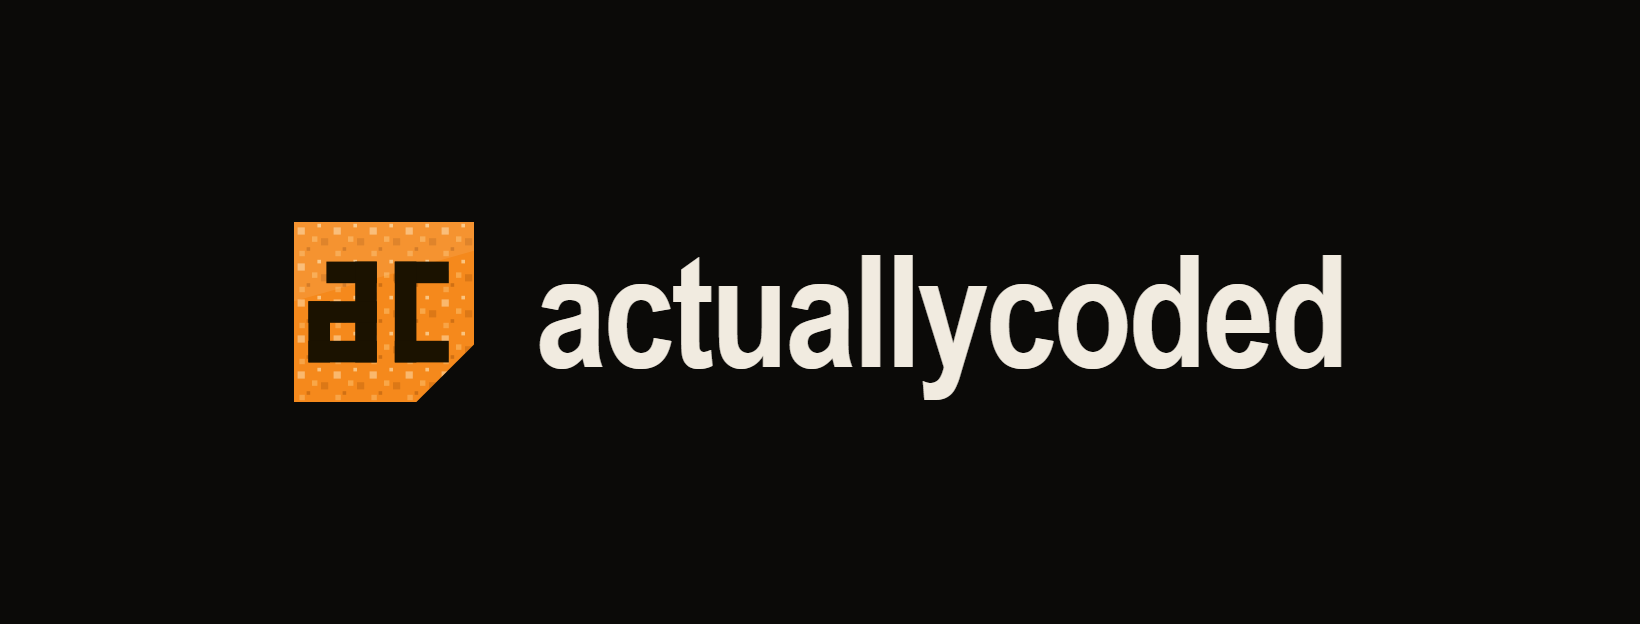
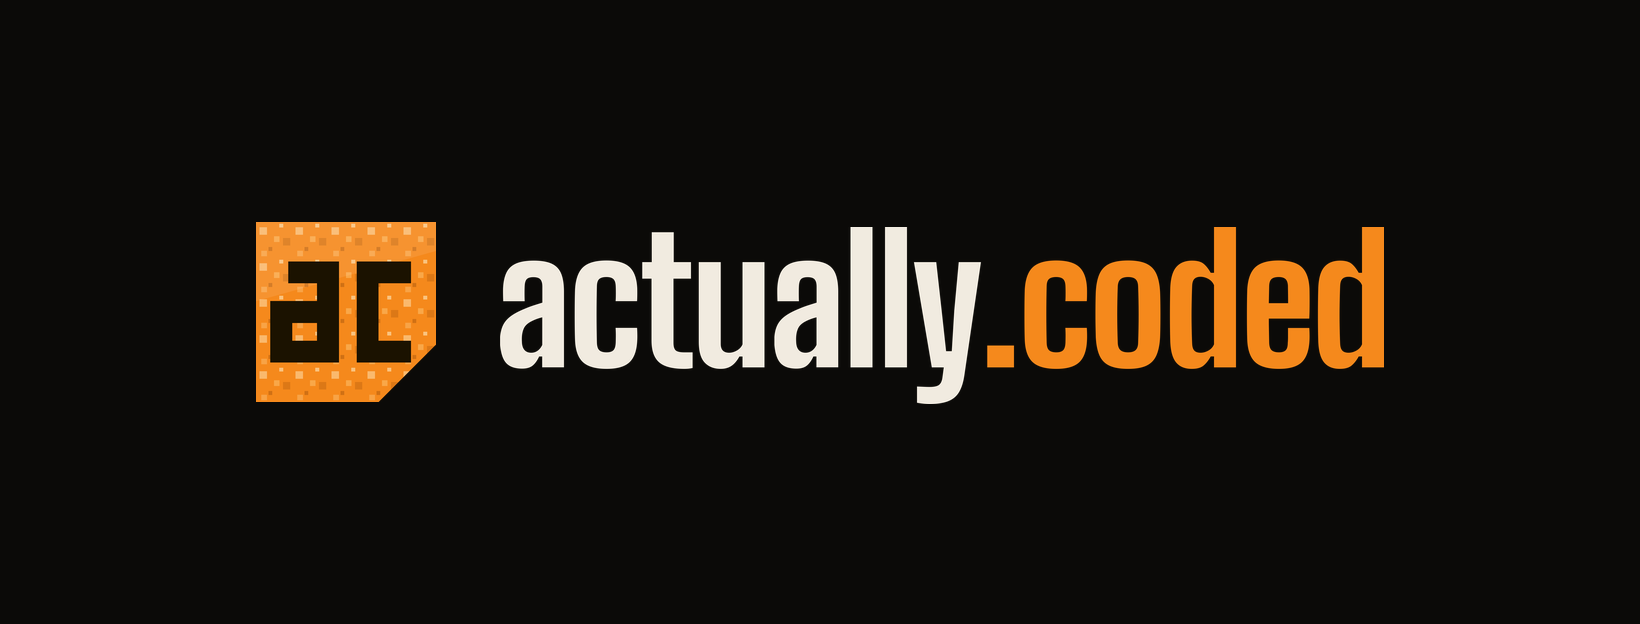
Brand files re rendered with the actually.coded wordmark
Logo and cover rendered in Python from the mark's geometry and the repo's
own Big Shoulders face at the header's weight and spacing; actually in
bone, .coded in amber. Icon and profile picture unchanged. The Facebook
cover already uploaded needs replacing.

Changed region(s): [[0.1555, 0.3349, 0.8707, 0.6699]]

diff --git a/brand/README.md b/brand/README.md
@@ -11,3 +11,14 @@ Not served by the site (this folder is outside `docs/`).
 To re render the wordmark ones, open the site's header markup on the ground with
 `styles.css` loaded and screenshot at the target size; the fonts must come from the
 repo, never from Google.
+
+## Re rendered 2026-09-09 evening: the wordmark is `actually.coded`
+
+The dot is property access and it is the handle (@actually.coded), so the site and
+the socials say the same thing. `actually` in bone, `.coded` in amber. `logo-1200x300.png`
+and `cover-1640x624.png` were re rendered in Python (Pillow) from the mark's own
+geometry on the 100 unit grid, the grain and sheen included, and from the repo's
+Big Shoulders face unpacked from `docs/fonts/bigshoulders-latin.woff2` with fontTools,
+at weight 700 and letter spacing minus 0.02em, the header's exact styling. The icon and
+the profile picture are tile only and did not change. The Facebook cover uploaded
+earlier on 2026-09-09 carries the old wordmark and needs replacing with this one.
